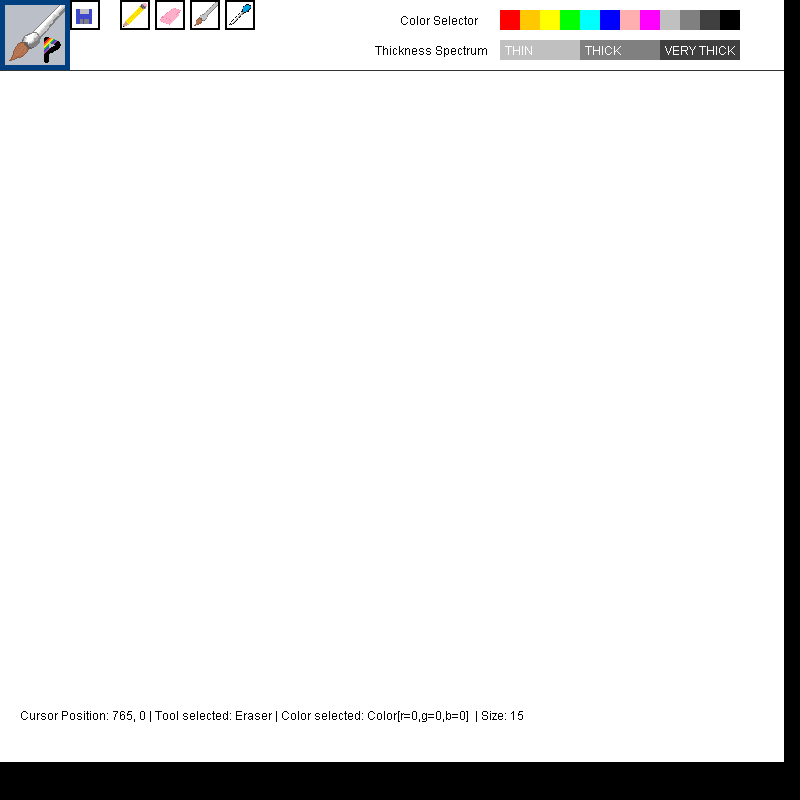
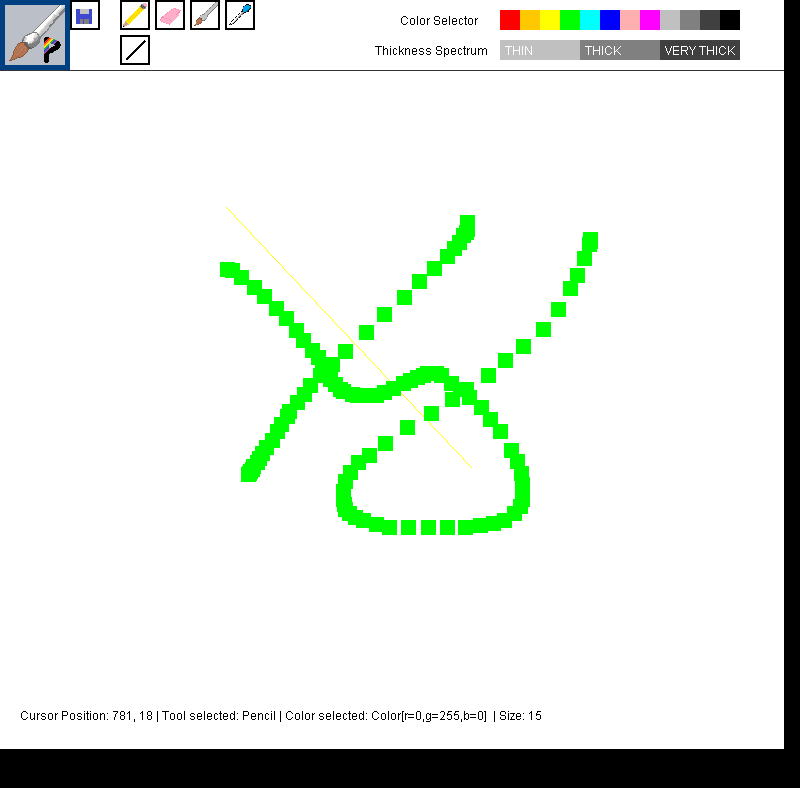
Added line tool

diff --git a/Painter/src/painter/Painter.java b/Painter/src/painter/Painter.java
@@ -35,6 +35,8 @@ public class Painter extends Canvas implements MouseListener, MouseMotionListene
 	private boolean eraserselected;
 	private boolean brushselected;
 	private boolean pickerselected;
+	private boolean lineselected;
+	
 	
 //	private int r;
 //	private int g;
@@ -42,15 +44,22 @@ public class Painter extends Canvas implements MouseListener, MouseMotionListene
 	
 	private int X = 0;
 	private int Y = 0;
+	private int Xrel = 0;
+	private int Yrel = 0;
+	private int Xpress = 0;
+	private int Ypress = 0;
 	
 	private int cursorX = 0;
 	private int cursorY = 0;
+	
+	private boolean justUp = false;
 	
 	ToolPencil pencil;
 	ToolEraser eraser;
 	ToolBrush brush;
 	ToolSave save;
 	ToolPicker picker;
+	ToolLine line;
 //	private ArrayList<Palette> colorz;
 	
 	
@@ -67,6 +76,7 @@ public class Painter extends Canvas implements MouseListener, MouseMotionListene
 		pencilselected=true;
 		eraserselected=false;
 		brushselected=false;
+		lineselected=false;
 		
 		this.addMouseListener(this);
 		this.addMouseMotionListener(this);
@@ -105,6 +115,7 @@ public class Painter extends Canvas implements MouseListener, MouseMotionListene
 		brush = new ToolBrush(graphToBack);
 		save = new ToolSave(graphToBack);
 		picker = new ToolPicker(graphToBack);
+		line = new ToolLine(graphToBack);
 		
 		//Recognizes tool
 		if(pencilselected){
@@ -116,6 +127,11 @@ public class Painter extends Canvas implements MouseListener, MouseMotionListene
 		else if(brushselected){
 			tool = "Brush";
 		}
+		else if(lineselected){
+			tool = "Line Drawer";
+		}
+		else
+			tool = "None selected";
 		
 		//Status message updater
 		graphToBack.setColor(Color.WHITE);
@@ -158,6 +174,11 @@ public class Painter extends Canvas implements MouseListener, MouseMotionListene
 			graphToBack.setColor(Color.BLACK);
 			graphToBack.drawString("[Nonfunctional]Color Picker Tool: Don't feel like using the default colors? Pick your own! ", 20, 700);
 		}
+		//Cursor hovering over line tool
+		else if(cursorY>=line.getY()&&cursorY<=line.getY()+line.getSize()&&cursorX>=line.getX()&&cursorX<=line.getX()+line.getSize()){
+			graphToBack.setColor(Color.BLACK);
+			graphToBack.drawString("Line Tool: Want a thin, straight line? Use this!   NOTE: This is a single use tool. To use again, reclick the tool icon. ", 20, 700);
+		}
 		//Hovering over nothing, hide message
 		else{
 			graphToBack.setColor(Color.WHITE);
@@ -179,32 +200,36 @@ public class Painter extends Canvas implements MouseListener, MouseMotionListene
 				pencilselected = true;
 				eraserselected = false;
 				brushselected = false;
+				lineselected = false;
 			}
 			//Clicked on eraser tool
 			else if(Y>=eraser.getY()&&Y<=eraser.getY()+eraser.getSize()&&X>=eraser.getX()&&X<=eraser.getX()+eraser.getSize()){
 				pencilselected = false;
 				eraserselected = true;
 				brushselected = false;
+				lineselected = false;
 			}
 			//Clicked on brush tool
 			else if(Y>=brush.getY()&&Y<=brush.getY()+brush.getSize()&&X>=brush.getX()&&X<=brush.getX()+brush.getSize()){
 				pencilselected = false;
 				eraserselected = false;
 				brushselected = true;
+				lineselected = false;
 			}
 			//Clicked on save
 			else if(Y>=save.getY()&&Y<=save.getY()+save.getsize()&&X>=save.getX()&&X<=save.getX()+save.getsize()){
 //				save.save();
 			}
-			//Clicked on color picker tool
-			else if(cursorY>=picker.getY()&&cursorY<=picker.getY()+picker.getSize()&&cursorX>=picker.getX()&&cursorX<=picker.getX()+picker.getSize()){
+			//Clicked on color picker tool---doesn't work
+//			else if(cursorY>=picker.getY()&&cursorY<=picker.getY()+picker.getSize()&&cursorX>=picker.getX()&&cursorX<=picker.getX()+picker.getSize()){
 //				pickerselected=true;
-//				if(pickerselected){
-//					Color newcolor =  picker.picker();
-//					color = newcolor;
-//					pickerselected=false;
-//				}
-				
+//			}
+			//Clicked on line tool
+			else if(cursorY>=line.getY()&&cursorY<=line.getY()+line.getSize()&&cursorX>=line.getX()&&cursorX<=line.getX()+line.getSize()){
+				pencilselected = false;
+				eraserselected = false;
+				brushselected = false;
+				lineselected = true;
 			}
 			//Draws on canvas with pencil
 			else if(pencilselected&&Y>70){
@@ -221,8 +246,21 @@ public class Painter extends Canvas implements MouseListener, MouseMotionListene
 			else if(brushselected&&Y>70){
 				brush.draw(graphToBack,X,Y,color,size);
 			}
-				
+			
 		}
+		//Draws on canvas using line tool
+		if(justUp&&lineselected&&Y>70&&Ypress>70&&Yrel>70){
+			justUp = false;
+			lineselected = false;
+			line.draw(graphToBack,Xpress,Ypress,Xrel,Yrel,color);
+		}
+		
+		//colorpicker doesn't work
+//		if(pickerselected){
+//			pickerselected=false;
+//			Color newcolor =  picker.picker();
+//			color = newcolor;
+//		}
 		
 		twoDGraph.drawImage(back, null, 0, 0);
 	}
@@ -231,14 +269,25 @@ public class Painter extends Canvas implements MouseListener, MouseMotionListene
 		repaint();
 	}
 	public void mousePressed(MouseEvent event){
-		X = event.getX();
-		Y = event.getY();
 		mouseDown = true;
+		
+		if(lineselected&&cursorY>70){
+			Xpress = event.getX();
+			Ypress = event.getY();
+		}
+		else{
+			X = event.getX();
+			Y = event.getY();
+		}
+			
 		repaint();
 		
 	}
 	public void mouseReleased(MouseEvent event){
 		mouseDown = false;
+		Xrel = event.getX();
+		Yrel = event.getY();
+		justUp = true;
 		repaint();
 	}
 	public void mouseEntered(MouseEvent event){

diff --git a/Painter/src/painter/ToolLine.java b/Painter/src/painter/ToolLine.java
@@ -1,0 +1,47 @@
+package painter;
+
+import java.awt.Color;
+import java.awt.Graphics;
+import java.awt.Image;
+import java.io.File;
+import javax.imageio.ImageIO;
+
+public class ToolLine {
+	
+	int x;
+	int y;
+	int size;
+	Image image;
+	
+	public ToolLine(Graphics window){
+		try
+		{
+			image = ImageIO.read(new File("src/painter/linetoolico.png"));
+		}
+		catch(Exception e)
+		{
+			System.out.println("Icon could not be found or read. ");
+		}
+		x=120;
+		y=35;
+		size=30;
+		window.drawImage(image,x,y,size,size,null);
+	}
+
+	public int getX() {
+		return x;
+	}
+
+	public int getY() {
+		return y;
+	}
+
+	public int getSize() {
+		return size;
+	}
+
+	public void draw(Graphics window,int x1,int y1,int x2,int y2,Color color){
+		window.setColor(color);
+		window.drawLine(x1, y1, x2, y2);
+	}
+}

diff --git a/Painter/src/painter/ToolPicker.java b/Painter/src/painter/ToolPicker.java
@@ -14,6 +14,7 @@ public class ToolPicker {
 	int y;
 	int size;
 	Image image;
+	Color color;
 	
 	public ToolPicker(Graphics window){
 		try
@@ -24,6 +25,7 @@ public class ToolPicker {
 		{
 			System.out.println("Icon could not be found or read. ");
 		}
+		color = Color.WHITE;
 		x=225;
 		y=0;
 		size=30;
@@ -44,16 +46,14 @@ public class ToolPicker {
 
 	
 	public Color picker()
-	  {
-	    Color color = Color.WHITE;
-	    
+	  { 
 	    //creates JFrame
-	    JFrame frame = new JFrame();
+		JFrame frame = new JFrame();
 	    frame.setAlwaysOnTop(true);	    
-	    
+	    System.out.println("CREATED JFRAME");
 	    //opens color picker
 	    color = JColorChooser.showDialog(frame,"Pick a color",color);
-	    
+	    System.out.println("COLORCHOOSE ISSUE");
 	    return color;
 	  }
 }
